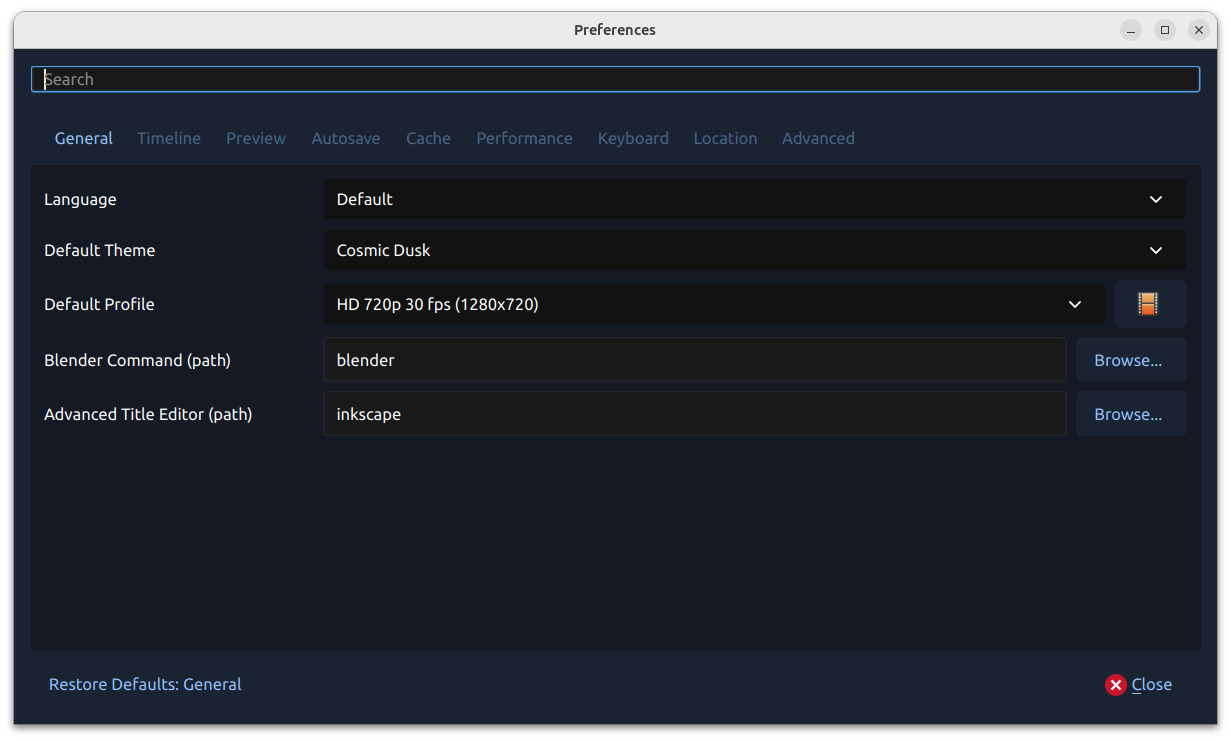
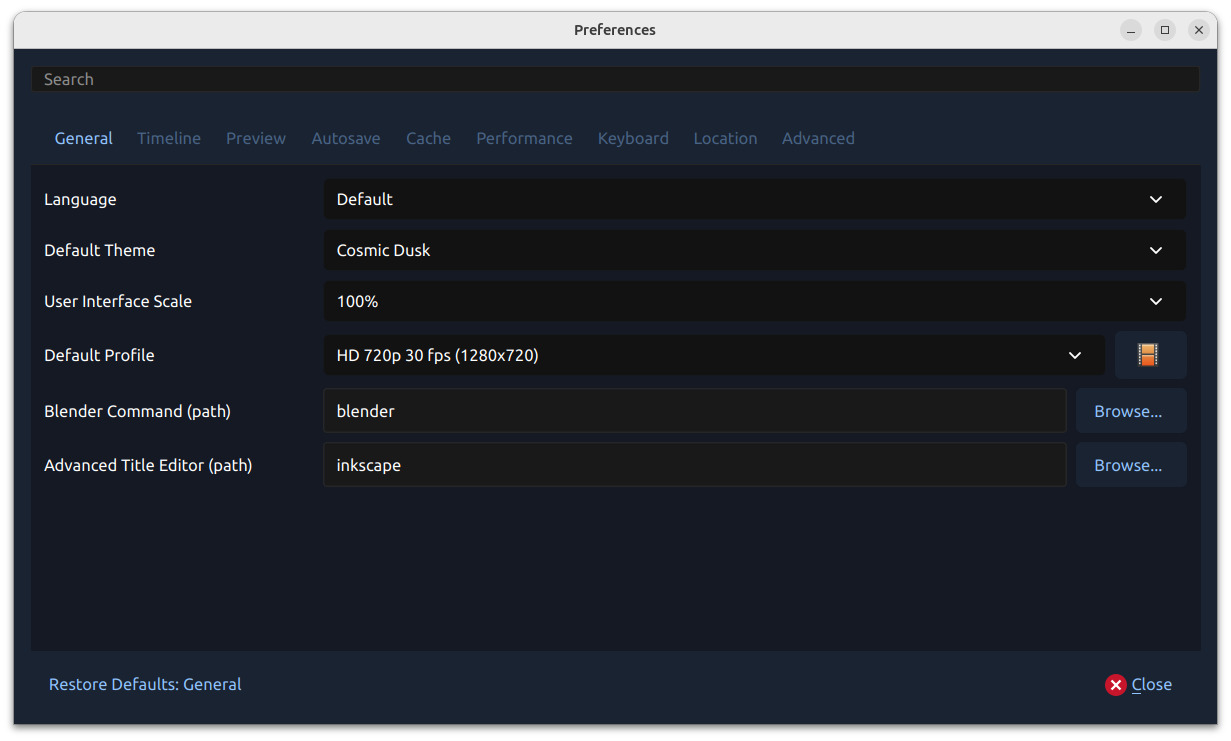
Adding User Interface Scale to preferences, to allow users to easily change the scale of OpenShot. When Enabling the Legacy Timeline it disables this option, and sets it back to 100% scale (our legacy web timeline backends have ugly artifacts when using some fractional scales)

diff --git a/src/windows/preferences.py b/src/windows/preferences.py
@@ -367,6 +367,19 @@ class Preferences(QDialog):
                                 "name": _(theme_name), "value": theme_name
                             })
 
+                    if param["setting"] == "ui-scale":
+                        current_scale = float(param["value"])
+                        has_current_value = any(
+                            abs(float(item.get("value", 0.0)) - current_scale) < 0.001
+                            for item in value_list
+                        )
+                        if not has_current_value:
+                            value_list.append({
+                                "name": _("%d%% (Custom)") % int(round(current_scale * 100)),
+                                "value": current_scale,
+                            })
+                            value_list.sort(key=lambda item: float(item.get("value", 0.0)))
+
                     # Overwrite value list (for language dropdown)
                     if param["setting"] == "default-language":
                         value_list = []
@@ -457,7 +470,10 @@ class Preferences(QDialog):
                             widget.addItem(_(k), v)
 
                         # select dropdown (if default)
-                        if v == param["value"]:
+                        if (
+                            param["setting"] == "ui-scale"
+                            and abs(float(v) - float(param["value"])) < 0.001
+                        ) or v == param["value"]:
                             widget.setCurrentIndex(box_index)
                         box_index = box_index + 1
 
@@ -646,6 +662,24 @@ class Preferences(QDialog):
         """Apply current cache preference values to the active session."""
         get_app().window.InitCacheSettings()
 
+    def _set_ui_scale_to_default(self):
+        """Force the UI scale preference back to 100%."""
+        default_scale = 1.0
+        self.s.set("ui-scale", default_scale)
+
+        widget = self.setting_widgets.get("ui-scale")
+        if not widget or not isinstance(widget, QComboBox):
+            return
+
+        for index in range(widget.count()):
+            value = widget.itemData(index)
+            try:
+                if abs(float(value) - default_scale) < 0.001:
+                    widget.setCurrentIndex(index)
+                    break
+            except (TypeError, ValueError):
+                continue
+
     def bool_value_changed(self, widget, param, state):
         # Save setting
         if state == Qt.Checked:
@@ -670,6 +704,9 @@ class Preferences(QDialog):
             else:
                 # Stop autosave timer
                 get_app().window.auto_save_timer.stop()
+
+        elif param["setting"] == "legacy-based-timeline" and state == Qt.Checked:
+            self._set_ui_scale_to_default()
 
         # Check for restart
         self.check_for_restart(param)

diff --git a/src/launch.py b/src/launch.py
@@ -75,7 +75,7 @@ try:
                     break
 except Exception as exc:
     logger.warning("Failed to read UI scale from %s: %s", settings_path, exc, exc_info=True)
-scale = max(1.0, min(3.0, scale))
+scale = max(0.5, min(3.0, scale))
 if scale != 1.0:
     os.environ["QT_SCALE_FACTOR"] = str(scale)
 

diff --git a/doc/preferences.rst b/doc/preferences.rst
@@ -52,6 +52,9 @@ The General tab of the Preferences window allows you to modify the settings that
    * - Default Theme
      - Cosmic Dusk
      - Choose your theme for OpenShot
+   * - User Interface Scale
+     - 100%
+     - Choose a preset UI scaling factor for larger or smaller interface elements
    * - Default Profile
      - HD 720p 30 fps
      - Select the default profile for new projects and exports